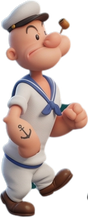
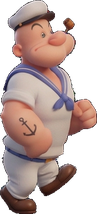
Reis modeli yenilendi (yeni görsellerle), sürüm v0.03
- Tüm reis_ sprite'ları (walk0-5, kaz0-5, fall0-3, pump0-1, dus) kullanıcının
  gönderdiği referans sayfasından kesilip aynı dosya adlarının üzerine
  yazıldı; eski görseller silinip yerine konuldu, yetim dosya kalmadı.
  Kod tarafında dosya adları değişmediği için game.js'e dokunulmadı.

Claude-Session: https://claude.ai/code/session_017AaaMCeVHMkA1CeuVEH2QL

diff --git a/www/js/config.js b/www/js/config.js
@@ -1,7 +1,7 @@
 // Oyunun tüm ayarları burada. AdMob ID'lerini buraya yaz.
 window.OYUN_CONFIG = {
   oyunAdi: "DigPopeyeDug",
-  surum: "v0.02", // sağ altta görünür
+  surum: "v0.03", // sağ altta görünür
   paketAdi: "com.jawk.digpopeyedug", // Play Store'a yüklendikten sonra DEĞİŞTİRİLEMEZ
 
   reklam: {
